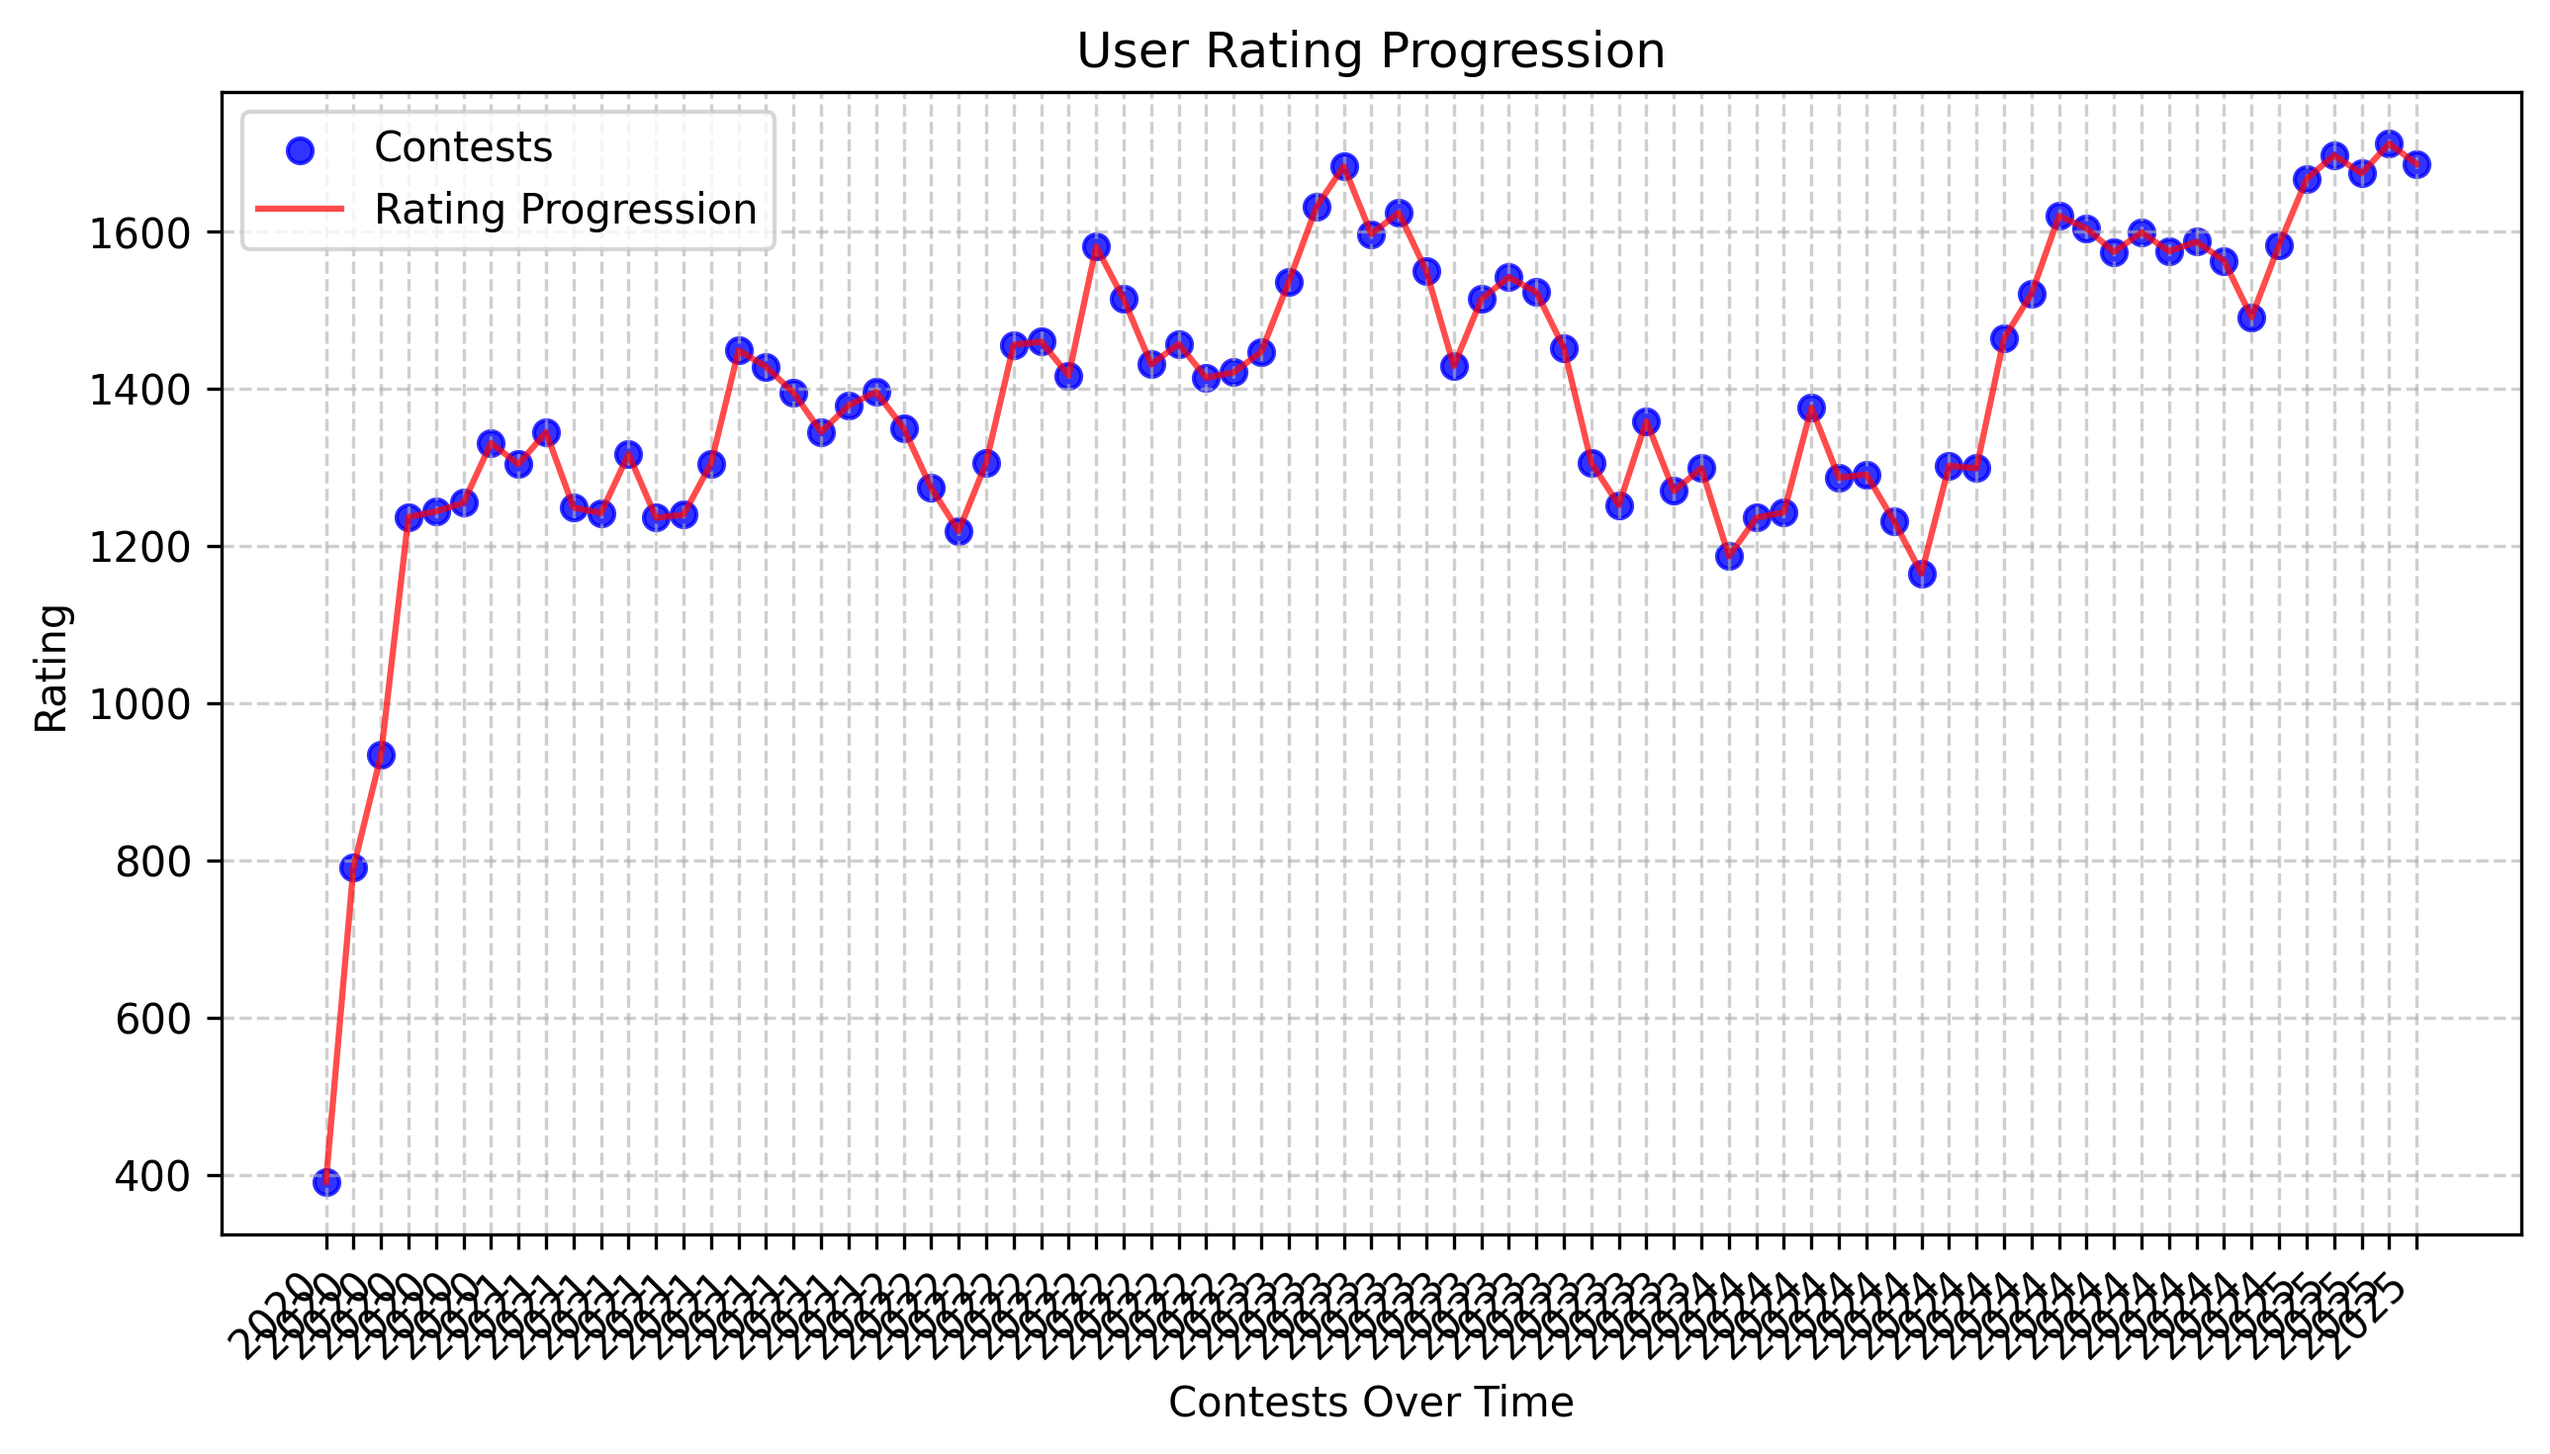
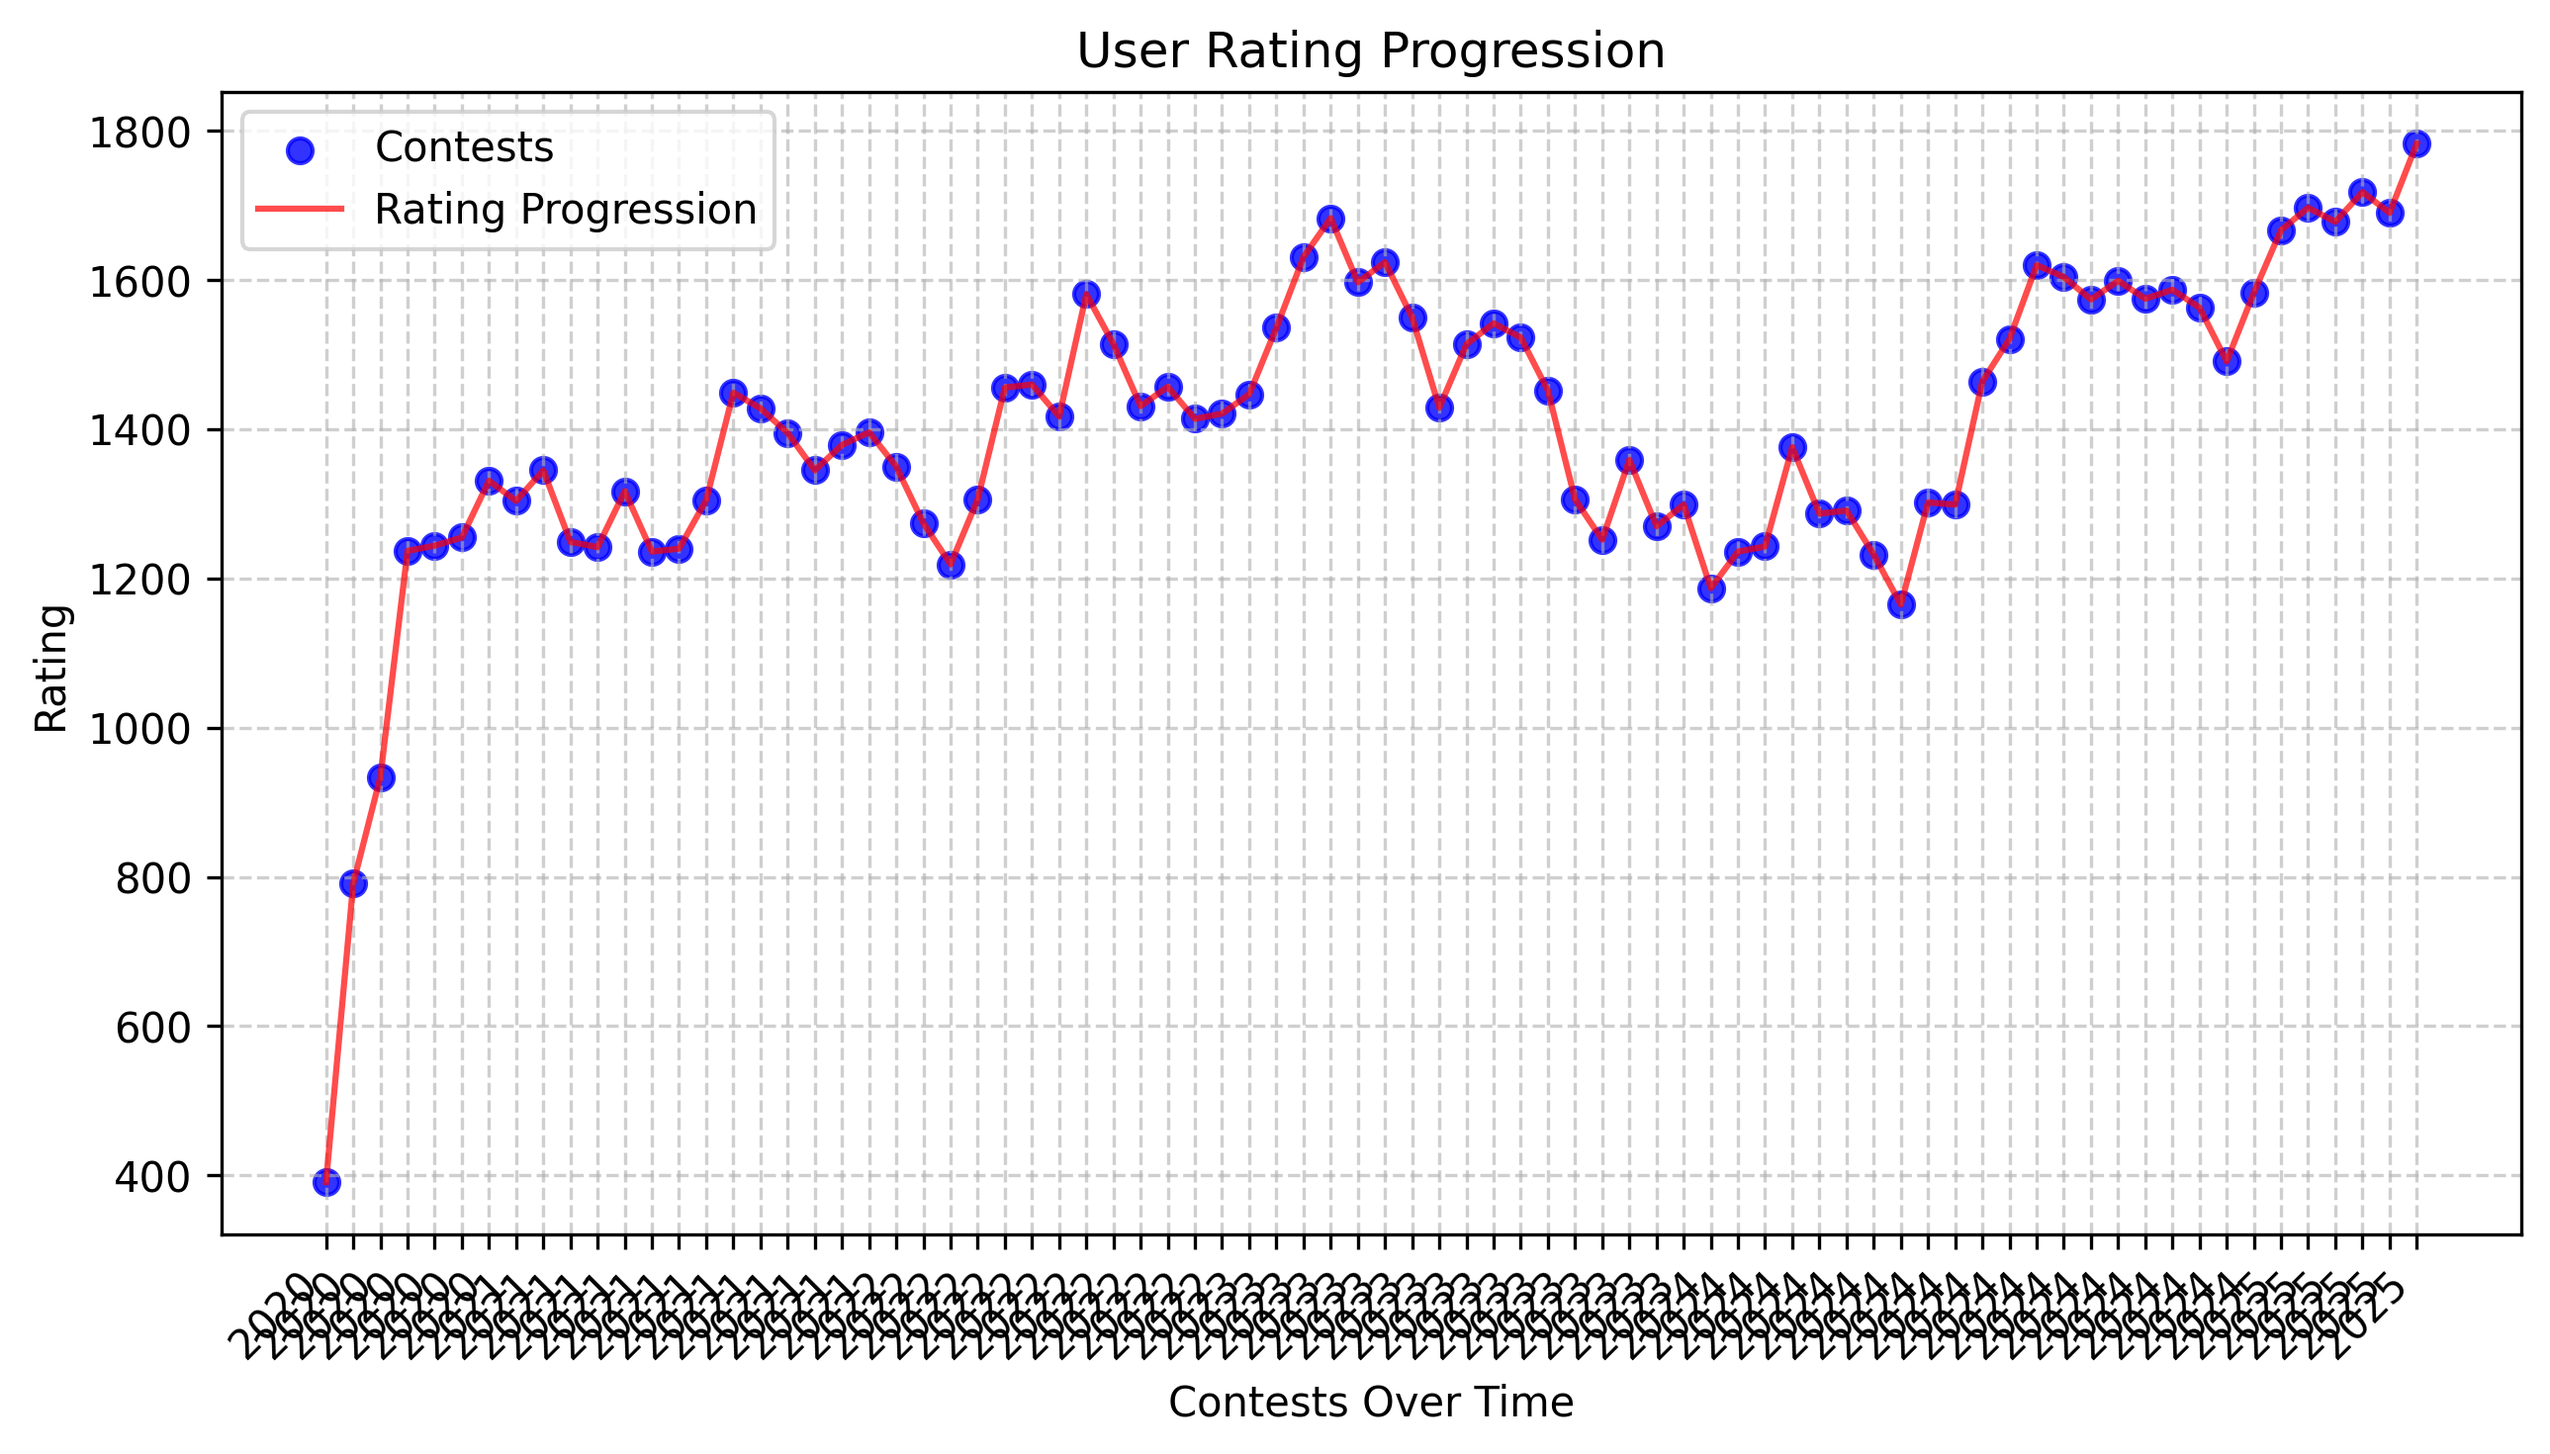
Update

diff --git a/main.py b/main.py
@@ -145,15 +145,21 @@ def update_readme(cf, cc):
     with open('Readme.md', 'r', encoding='utf-8', errors='replace') as file:
         lines = file.readlines()
 
-    lines[22] = '- **Current Rating:** [' + str(cf['rating']) + ']\n'
-    lines[23] = '- **Max Rating:** [' + str(cf['max_rating']) + ']\n'
-    lines[24] = '- **Rank:** [' + str(cf['rank']) + ']\n'
-    lines[25] = '- **Contests Participated:** [' + str(cf['contests']) + ']\n'
-    lines[26] = '- **Problems Solved:** [' + str(cf['problems']) + ']\n'
 
-    lines[38] = '- **Current Rating:** [' + str(cc['rating']) + ']\n'
-    lines[39] = '- **Contests Participated:** [' + str(cc['contests_participated']) + ']\n'
-    lines[40] = '- **Problems Solved:** [' + str(cc['problems_solved']) + ']\n'
+    #print(lines[20])
+    lines[20] = '- **Current Rating:** [' + str(cf['rating']) + ']\n'
+    #print(lines[20])
+
+    lines[21] = '- **Max Rating:** [' + str(cf['max_rating']) + ']\n'
+    lines[22] = '- **Rank:** [' + str(cf['rank']) + ']\n'
+    lines[23] = '- **Contests Participated:** [' + str(cf['contests']) + ']\n'
+    lines[24] = '- **Problems Solved:** [' + str(cf['problems']) + ']\n\n\n'
+
+    #print(lines[36])
+    #print(str(cc['rating']))
+    lines[34] = '- **Current Rating:** [' + str(cc['rating']) + ']\n'
+    lines[35] = '- **Contests Participated:** [' + str(cc['contests_participated']) + ']\n'
+    lines[36] = '- **Problems Solved:** [' + str(cc['problems_solved']) + ']\n'
 
     # Write the updated content back to the file
     with open('Readme.md', 'w', encoding='utf-8') as file:

diff --git a/readme.md b/readme.md
@@ -18,12 +18,13 @@ Python script is used to scrap and update this *Readme file*, modifiyng my ratin
 ## CodeForces
 
 - **Username:** [veks_the_boss]
-- **Current Rating:** [1686]
-- **Max Rating:** [1712]
+- **Current Rating:** [1783]
+- **Max Rating:** [1783]
 - **Rank:** [expert]
-- **Contests Participated:** [77]
-- **Problems Solved:** [381]
-- **Profile Link:** [[profile](https://codeforces.com/profile/veks_the_boss)]
+- **Contests Participated:** [78]
+- **Problems Solved:** [385]
+
+
 
 Below is the python script generated plot, showing my contest rating changes
 
@@ -33,14 +34,9 @@ Below is the python script generated plot, showing my contest rating changes
 ## CodeChef
 
 - **Username:** [veks_the_boss]
-- **Current Rating:** [1793]
+- **Current Rating:** [1794]
 - **Contests Participated:** [60]
 - **Problems Solved:** [317]
-- **Profile Link:** [[profile](https://www.codechef.com/users/veks_the_boss)]
-
-
-## LeetCode
-[![LeetCode Stats](https://leetcard.jacoblin.cool/veks_the_boss?theme=dark&font=Montserrat&extension=activity)](https://leetcode.com/veks_the_boss/)
 
 ## BubbleCup
 
@@ -50,10 +46,8 @@ year and has 2 phases: **Qualification round** (online), and **Final round**(in 
 
 I've been competing in both categories, through whole high school (with Nemanja Majski and Aleksandar Gubica) and now my current team is with two colleague from University Lazar and Milan Sazdov.
 
-![Finale High School](images/buble_cup_microsoft_serbia_1.jpg)
-*Me and my team in Rising Stars Final Round, 2023.*
 
->**Note** + Image from last year + certificates
+>**Note** Certificate
 
 ## CodeIT
 
@@ -63,10 +57,8 @@ competitors from Bulgaria and the world. 6 online rounds, 12 finalists, many par
 
 I have been on 2 finals: 2023. and 2022.
 
-![Finale](images/sofia,_code_IT_finale.jpg)
-*Sofia 2023.*
 
->**Note** + Certificate
+>**Note** Certificate
 
 ## Others
 
@@ -74,6 +66,8 @@ Because of my passion for competitive programming and algoriths, I have been on 
 are organized by IT companies. 
 
 ![Proggy Buggy](images/proggy.PNG)
+
+![Proggy Buggy](images/proggy2.PNG)
 
 ![reply](images/reply.PNG)
 
